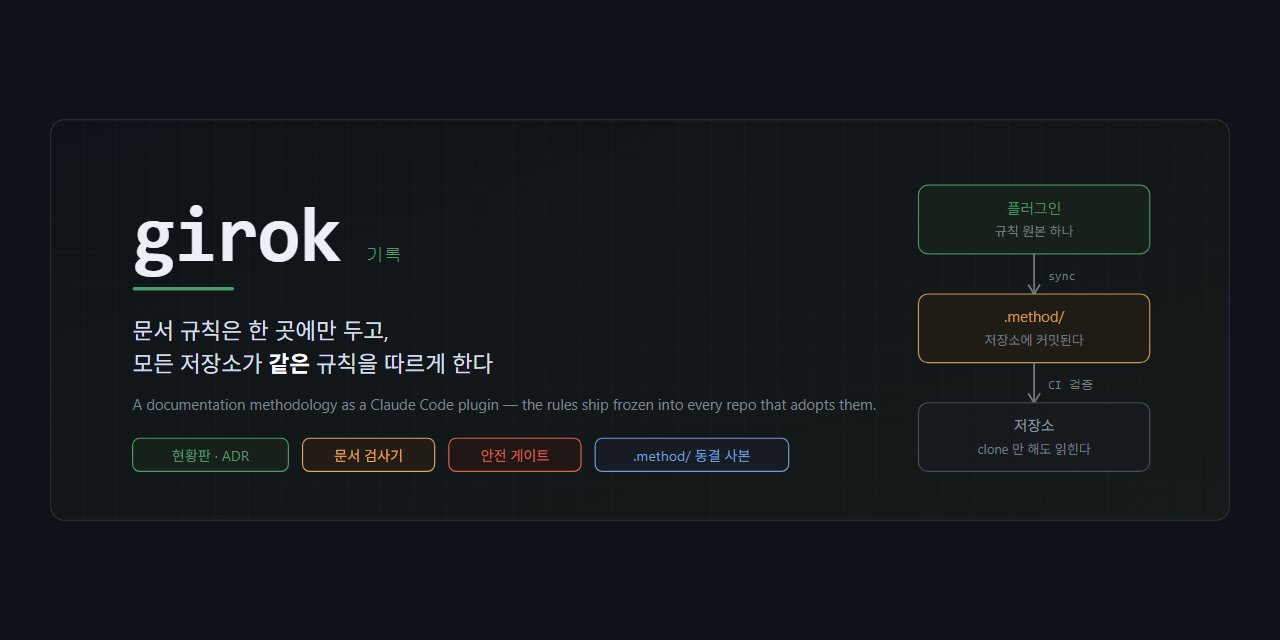
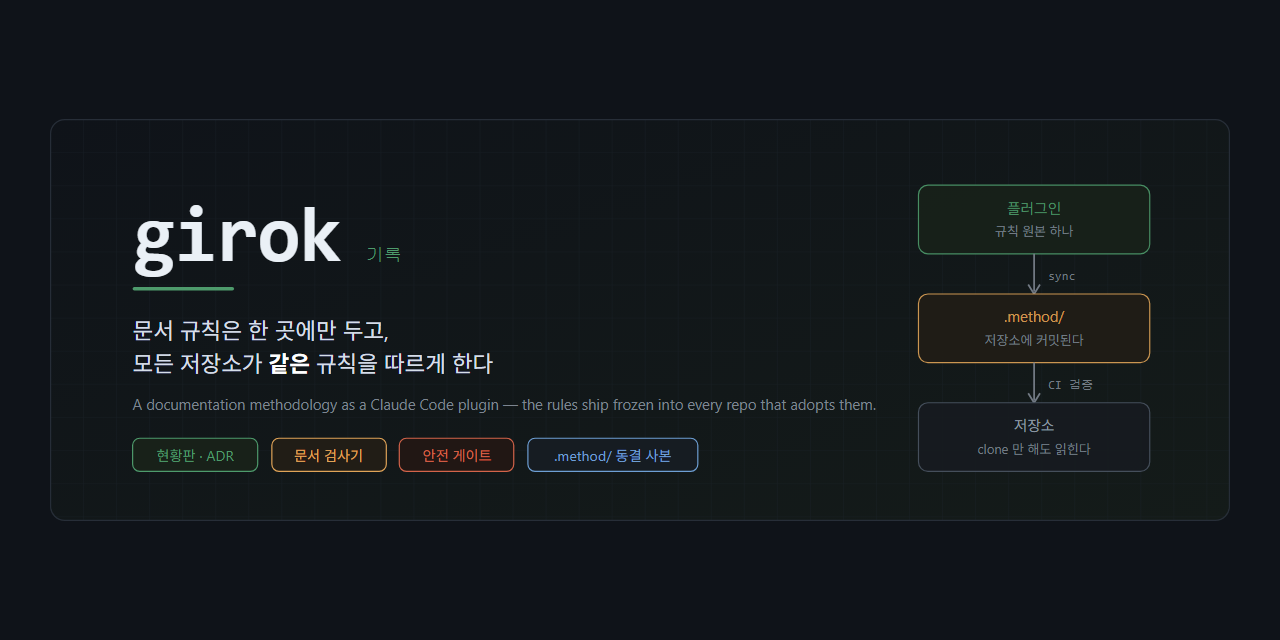
docs: 영어 README 의 캡처를 영어로 뽑는다
영어 페이지에 한국어 캡처만 실려 있으면 그 페이지를 둔 이유가 없어진다.
docs/images/en/ 으로 히어로와 카드 5장을 따로 낸다.

콘솔 출력 자체는 한국어라, 영문 카드는 실제 출력의 번역임을 캡션과 NOTE 에
명시했다. 실제와 다른 걸 보여주고 넘어가지 않는다.

생성기는 문자열만 갈아 끼우면 판본이 하나 더 나오게 바꿨다 — 칩과 흐름
상자는 이제 글자 길이로 폭을 잡는다.

Changed region(s): [[0.125, 0.6562, 0.5938, 0.75]]

diff --git a/ci/make_images.py b/ci/make_images.py
@@ -50,6 +50,11 @@ TOKENS = [
     (re.compile(r"^\[생성\]"), GREEN),
     (re.compile(r"^\[유지\]"), DIM),
     (re.compile(r"^\[girok\]"), GREEN),
+    (re.compile(r"^\[fail\]"), RED),
+    (re.compile(r"^\[blocked\]"), RED),
+    (re.compile(r"^\[warn\]"), AMBER),
+    (re.compile(r"^\[created\]"), GREEN),
+    (re.compile(r"^\[kept\]\s*"), DIM),
 ]
 
 
@@ -227,10 +232,85 @@ CARDS["block"] = (
 )
 
 
-def hero() -> str:
+HERO_KO = {
+    "label": "girok — 문서 규칙은 한 곳에만 두고, 모든 저장소가 같은 규칙을 따르게 한다",
+    "line1": "문서 규칙은 한 곳에만 두고,",
+    "line2": ("모든 저장소가 ", "같은", " 규칙을 따르게 한다"),
+    "sub": "A documentation methodology as a Claude Code plugin — the rules ship frozen into every repo that adopts them.",
+    "chips": [
+        ("현황판 · ADR", GREEN, "#182119"),
+        ("문서 검사기", AMBER, "#211D16"),
+        ("안전 게이트", RED, "#211714"),
+        (".method/ 동결 사본", BLUE, "#161C22"),
+    ],
+    "flow": [
+        ("플러그인", "규칙 원본 하나", GREEN, "#182119"),
+        (".method/", "저장소에 커밋된다", AMBER, "#211D16"),
+        ("저장소", "clone 만 해도 읽힌다", "#9AA4B2", "#171B20"),
+    ],
+    "edges": ["sync", "CI 검증"],
+}
+
+HERO_EN = {
+    "label": "girok — keep the documentation rules in one place and make every repository follow the same ones",
+    "line1": "Keep the documentation rules in one place,",
+    "line2": ("and make every repo follow the ", "same", " ones"),
+    "sub": "A Claude Code plugin — status board, ADRs, a docs linter, and a safety gate an agent cannot close.",
+    "chips": [
+        ("Status board · ADR", GREEN, "#182119"),
+        ("Docs linter", AMBER, "#211D16"),
+        ("Safety gate", RED, "#211714"),
+        (".method/ frozen copy", BLUE, "#161C22"),
+    ],
+    "flow": [
+        ("Plugin", "one original", GREEN, "#182119"),
+        (".method/", "committed to the repo", AMBER, "#211D16"),
+        ("Repository", "readable from a clone", "#9AA4B2", "#171B20"),
+    ],
+    "edges": ["sync", "CI verifies"],
+}
+
+
+def sans_width(s: str, fs: float) -> float:
+    """비례 글꼴 폭 추정 — CJK 는 전각, 라틴은 대략 0.55em."""
+    return sum(fs if ord(c) > 0x2000 else fs * 0.55 for c in s)
+
+
+def hero(t: dict) -> str:
     w, h = 1000, 340
-    label = "girok — 문서 규칙은 한 곳에만 두고, 모든 저장소가 같은 규칙을 따르게 한다"
-    return f'''<svg xmlns="http://www.w3.org/2000/svg" width="{w}" height="{h}" viewBox="0 0 {w} {h}" role="img" aria-label="{label}">
+
+    chips, x = [], 70.0
+    for label, color, bg in t["chips"]:
+        cw = sans_width(label, 12) + 30
+        chips.append(
+            f'<rect x="{x:.0f}" y="270" width="{cw:.0f}" height="28" rx="6" '
+            f'fill="{bg}" stroke="{color}"/>'
+            f'<text x="{x + cw / 2:.0f}" y="289" text-anchor="middle" fill="{color}">'
+            f'{esc(label)}</text>'
+        )
+        x += cw + 12
+
+    flow, y = [], 56.0
+    for i, (head, sub, color, bg) in enumerate(t["flow"]):
+        flow.append(
+            f'<rect x="736" y="{y:.0f}" width="196" height="58" rx="8" fill="{bg}" '
+            f'stroke="{color if i < 2 else "#4B5563"}"/>'
+            f'<text x="834" y="{y + 24:.0f}" text-anchor="middle" font-family="{SANS}" '
+            f'font-size="12.5" fill="{color}">{esc(head)}</text>'
+            f'<text x="834" y="{y + 43:.0f}" text-anchor="middle" font-family="{SANS}" '
+            f'font-size="11" fill="{DIM}">{esc(sub)}</text>'
+        )
+        if i < len(t["flow"]) - 1:
+            flow.append(
+                f'<path d="M834 {y + 58:.0f} V{y + 90:.0f}" stroke="{DIM}" stroke-width="1.5"/>'
+                f'<path d="M829 {y + 84:.0f} l5 8 l5 -8" fill="none" stroke="{DIM}" stroke-width="1.5"/>'
+                f'<text x="846" y="{y + 80:.0f}" font-family="{MONO}" font-size="10.5" '
+                f'fill="{DIM}">{esc(t["edges"][i])}</text>'
+            )
+        y += 92
+
+    a, bold, c = t["line2"]
+    return f'''<svg xmlns="http://www.w3.org/2000/svg" width="{w}" height="{h}" viewBox="0 0 {w} {h}" role="img" aria-label="{esc(t["label"])}">
   <defs>
     <linearGradient id="bg" x1="0" y1="0" x2="1" y2="1">
       <stop offset="0" stop-color="#0F1319"/>
@@ -248,51 +328,129 @@ def hero() -> str:
   <text x="268" y="120" font-family="{MONO}" font-size="15" fill="{GREEN}">기록</text>
   <rect x="70" y="142" width="86" height="3" rx="1.5" fill="{GREEN}"/>
 
-  <text x="70" y="186" font-family="{SANS}" font-size="19" fill="#D6DEE8">문서 규칙은 한 곳에만 두고,</text>
-  <text x="70" y="214" font-family="{SANS}" font-size="19" fill="#D6DEE8">모든 저장소가 <tspan font-weight="700" fill="#FFFFFF">같은</tspan> 규칙을 따르게 한다</text>
-  <text x="70" y="246" font-family="{SANS}" font-size="12.5" fill="{DIM}">A documentation methodology as a Claude Code plugin — the rules ship frozen into every repo that adopts them.</text>
+  <text x="70" y="186" font-family="{SANS}" font-size="19" fill="#D6DEE8">{esc(t["line1"])}</text>
+  <text x="70" y="214" font-family="{SANS}" font-size="19" fill="#D6DEE8">{esc(a)}<tspan font-weight="700" fill="#FFFFFF">{esc(bold)}</tspan>{esc(c)}</text>
+  <text x="70" y="246" font-family="{SANS}" font-size="12.5" fill="{DIM}">{esc(t["sub"])}</text>
 
   <g font-family="{SANS}" font-size="12">
-    <rect x="70" y="270" width="132" height="28" rx="6" fill="#182119" stroke="{GREEN}"/>
-    <text x="136" y="289" text-anchor="middle" fill="{GREEN}">현황판 · ADR</text>
-    <rect x="214" y="270" width="112" height="28" rx="6" fill="#211D16" stroke="{AMBER}"/>
-    <text x="270" y="289" text-anchor="middle" fill="{AMBER}">문서 검사기</text>
-    <rect x="338" y="270" width="112" height="28" rx="6" fill="#211714" stroke="{RED}"/>
-    <text x="394" y="289" text-anchor="middle" fill="{RED}">안전 게이트</text>
-    <rect x="462" y="270" width="164" height="28" rx="6" fill="#161C22" stroke="{BLUE}"/>
-    <text x="544" y="289" text-anchor="middle" fill="{BLUE}">.method/ 동결 사본</text>
+    {"".join(chips)}
   </g>
 
   <g opacity="0.9">
-    <rect x="736" y="56" width="196" height="58" rx="8" fill="#182119" stroke="{GREEN}"/>
-    <text x="834" y="80" text-anchor="middle" font-family="{SANS}" font-size="12.5" fill="{GREEN}">플러그인</text>
-    <text x="834" y="99" text-anchor="middle" font-family="{SANS}" font-size="11" fill="{DIM}">규칙 원본 하나</text>
-
-    <path d="M834 114 V146" stroke="{DIM}" stroke-width="1.5"/>
-    <path d="M829 140 l5 8 l5 -8" fill="none" stroke="{DIM}" stroke-width="1.5"/>
-    <text x="846" y="136" font-family="{MONO}" font-size="10.5" fill="{DIM}">sync</text>
-
-    <rect x="736" y="148" width="196" height="58" rx="8" fill="#211D16" stroke="{AMBER}"/>
-    <text x="834" y="172" text-anchor="middle" font-family="{SANS}" font-size="12.5" fill="{AMBER}">.method/</text>
-    <text x="834" y="191" text-anchor="middle" font-family="{SANS}" font-size="11" fill="{DIM}">저장소에 커밋된다</text>
-
-    <path d="M834 206 V238" stroke="{DIM}" stroke-width="1.5"/>
-    <path d="M829 232 l5 8 l5 -8" fill="none" stroke="{DIM}" stroke-width="1.5"/>
-    <text x="846" y="228" font-family="{MONO}" font-size="10.5" fill="{DIM}">CI 검증</text>
-
-    <rect x="736" y="240" width="196" height="58" rx="8" fill="#171B20" stroke="#4B5563"/>
-    <text x="834" y="264" text-anchor="middle" font-family="{SANS}" font-size="12.5" fill="#9AA4B2">저장소</text>
-    <text x="834" y="283" text-anchor="middle" font-family="{SANS}" font-size="11" fill="{DIM}">clone 만 해도 읽힌다</text>
+    {"".join(flow)}
   </g>
 </svg>
 '''
 
 
+# 영문 판본 — 콘솔 출력은 한국어로 나오므로 이쪽은 번역이다.
+# 영어 README 가 한국어 캡처만 싣고 있으면 그 페이지를 둔 이유가 없어진다.
+CARDS_EN: dict[str, tuple[str, list]] = {}
+
+CARDS_EN["survey"] = (
+    "/notes — it reads the repository before it builds anything",
+    [
+        "$ /notes",
+        "",
+        "Repository: trading-bot · 43 documents",
+        "",
+        "Proposed configuration:",
+        ("  notes location", "."),
+        ("  status board", "STATE.md"),
+        ("  decision records", "decisions (numbered)"),
+        ("  linted folders", "decisions, docs, experiments"),
+        ("  safety gate", "off"),
+        ("  archive", "off"),
+        ("  parallel work", "off"),
+        "",
+        "1 thing to look at:",
+        '  - `CLAUDE.md` states "do not create an archive folder" — following',
+        "    that convention, the archive module is turned off",
+        "",
+        "This is a proposal — nothing was written. Confirm before initializing.",
+    ],
+)
+
+CARDS_EN["init"] = (
+    "It only builds after you confirm — existing files are left alone",
+    [
+        "$ /notes  →  confirmed",
+        "",
+        "[created] .claude/girok.json",
+        "[created] .claude/settings.json",
+        "[created] notes/CLAUDE.md",
+        "[created] notes/GEMINI.md",
+        "[created] notes/AGENTS.md",
+        "[created] notes/docs/PROGRESS.md",
+        "[created] notes/docs/decisions/README.md",
+        "[created] notes/docs/SAFETY_GATE.md",
+        ("[kept]    README.md", "← already there. not overwritten"),
+        ("[created] notes/.method/", "← frozen copy of the ruleset"),
+        "",
+        "10 created, 1 kept",
+    ],
+)
+
+CARDS_EN["session"] = (
+    "By the time the session starts, it already knows where things stand",
+    [
+        "$ cd my-robot && claude",
+        "",
+        "[girok] ready v0.18.0",
+        "worker abc (resolved from git user.email)",
+        "board notes/docs_abc/PROGRESS.md — 0 active risks, 0 open questions",
+        "safety gate 1 OPEN",
+        "",
+        "Safety: while a gate item is OPEN, do not run or suggest hardware",
+        "motion commands (homing, jogging, automated tests). Only a human",
+        "fills in an item's verifier field — never the agent.",
+    ],
+)
+
+CARDS_EN["lint"] = (
+    "The linter runs the moment a document is written",
+    [
+        "$ python notes/.method/scripts/check_docs.py",
+        "",
+        "[fail] notes/docs/SETUP.md -> table broken by a blank line — rows from",
+        "       line 14 render as text outside the table",
+        "[fail] notes/docs/SETUP.md -> TOC anchor `#calibration` has no heading",
+        "[fail] notes/docs/SETUP.md -> cites ADR-042, which does not exist",
+        "[warn] notes/CLAUDE.md -> no `## Contents` (2,479 bytes)",
+        "[warn] notes/docs/SETUP.md -> local absolute path (C:\\Users\\abc\\build)",
+        "       — differs per machine. use the repo name and a relative path",
+        "",
+        "7 documents checked, 3 failed",
+    ],
+)
+
+CARDS_EN["block"] = (
+    "It asks for a reason, not a switch",
+    [
+        "$ git push origin +master",
+        "",
+        "[blocked] force push — history is itself a decision record and is hard",
+        "          to undo. To tidy history, use a tree-identical commit (`-s",
+        "          ours` linking the ancestor). If you still must, run it with",
+        "          GIROK_FORCE_PUSH_REASON — a reason, not a switch (8+ chars).",
+        "          That reason stays on the session record",
+        "",
+        '$ GIROK_FORCE_PUSH_REASON="history reset — instructed 2026-09-01" \\',
+        "    git push origin +master",
+        "",
+        "[girok] rule broken: force push · reason is on the record",
+    ],
+)
+
+
 def main() -> None:
     OUT.mkdir(parents=True, exist_ok=True)
-    written = [("hero.svg", hero())]
+    (OUT / "en").mkdir(exist_ok=True)
+    written = [("hero.svg", hero(HERO_KO)), ("en/hero.svg", hero(HERO_EN))]
     for name, (title, lines) in CARDS.items():
         written.append((f"{name}.svg", terminal(title, lines)))
+    for name, (title, lines) in CARDS_EN.items():
+        written.append((f"en/{name}.svg", terminal(title, lines)))
     for name, svg in written:
         (OUT / name).write_text(svg, encoding="utf-8", newline="\n")
         print(f"[생성] docs/images/{name}")

diff --git a/docs/README.en.md b/docs/README.en.md
@@ -1,5 +1,5 @@
 <p align="center">
-  <img src="images/hero.svg" alt="girok — keep the documentation rules in one place and make every repository follow the same ones" width="880">
+  <img src="images/en/hero.svg" alt="girok — keep the documentation rules in one place and make every repository follow the same ones" width="880">
 </p>
 
 <p align="center">
@@ -21,18 +21,18 @@
 </p>
 
 <p align="center">
-  <img src="images/survey.svg" alt="Running /notes — it reads the repository and proposes a configuration" width="700">
+  <img src="images/en/survey.svg" alt="Running /notes — it reads the repository and proposes a configuration" width="700">
 </p>
 
 <p align="center">
   <sub>Adoption is one <code>/notes</code>. It <b>reads the repository before it writes anything</b> and infers the configuration from conventions you already use.<br>
-  <i>Screenshots are real output — which the plugin prints in Korean.</i></sub>
+  <i>Screenshots show the real output, translated — the plugin itself prints Korean.</i></sub>
 </p>
 
 > [!NOTE]
-> The plugin's own console output and shipped documents are Korean. This page is the English
-> guide to what it does and how to run it. Everything described here works the same in any
-> language — the linter, the hooks and the safety gate are language-agnostic.
+> The plugin's own console output and shipped rule documents are Korean — the screenshots on
+> this page are translations of real runs. Everything mechanical is language-agnostic: the
+> linter, the hooks and the safety gate do not care what language you write in.
 
 ---
 
@@ -141,7 +141,7 @@ and its output is a proposal.
 It asks for confirmation before creating anything.
 
 <p align="center">
-  <img src="images/init.svg" alt="Initialization — it creates only what was missing and keeps what already existed" width="720">
+  <img src="images/en/init.svg" alt="Initialization — it creates only what was missing and keeps what already existed" width="720">
 </p>
 
 Commit the result. `.claude/settings.json` in particular has to be committed for teammates to
@@ -159,7 +159,7 @@ rule revision, the current worker, the state of the status board and any open ga
 already in context.
 
 <p align="center">
-  <img src="images/session.svg" alt="Session start — revision, worker, status board and gate state are already injected" width="720">
+  <img src="images/en/session.svg" alt="Session start — revision, worker, status board and gate state are already injected" width="720">
 </p>
 
 ## What ships
@@ -190,7 +190,7 @@ already in context.
 | `notes_adopt.py` | Migrating existing notes into girok's layout — `backup` · `plan` · `apply` · `verify` |
 
 <p align="center">
-  <img src="images/lint.svg" alt="Linter output — broken tables, dead anchors, missing ADRs, local absolute paths" width="760">
+  <img src="images/en/lint.svg" alt="Linter output — broken tables, dead anchors, missing ADRs, local absolute paths" width="760">
 </p>
 
 The linters run **from the committed snapshot**, so CI needs nothing installed:
@@ -229,7 +229,7 @@ that is off protects nothing.
 Force push is blocked. If you genuinely need it, run it **with a reason**:
 
 <p align="center">
-  <img src="images/block.svg" alt="Force push is blocked — it asks for a reason, not a switch" width="760">
+  <img src="images/en/block.svg" alt="Force push is blocked — it asks for a reason, not a switch" width="760">
 </p>
 
 ```bash
